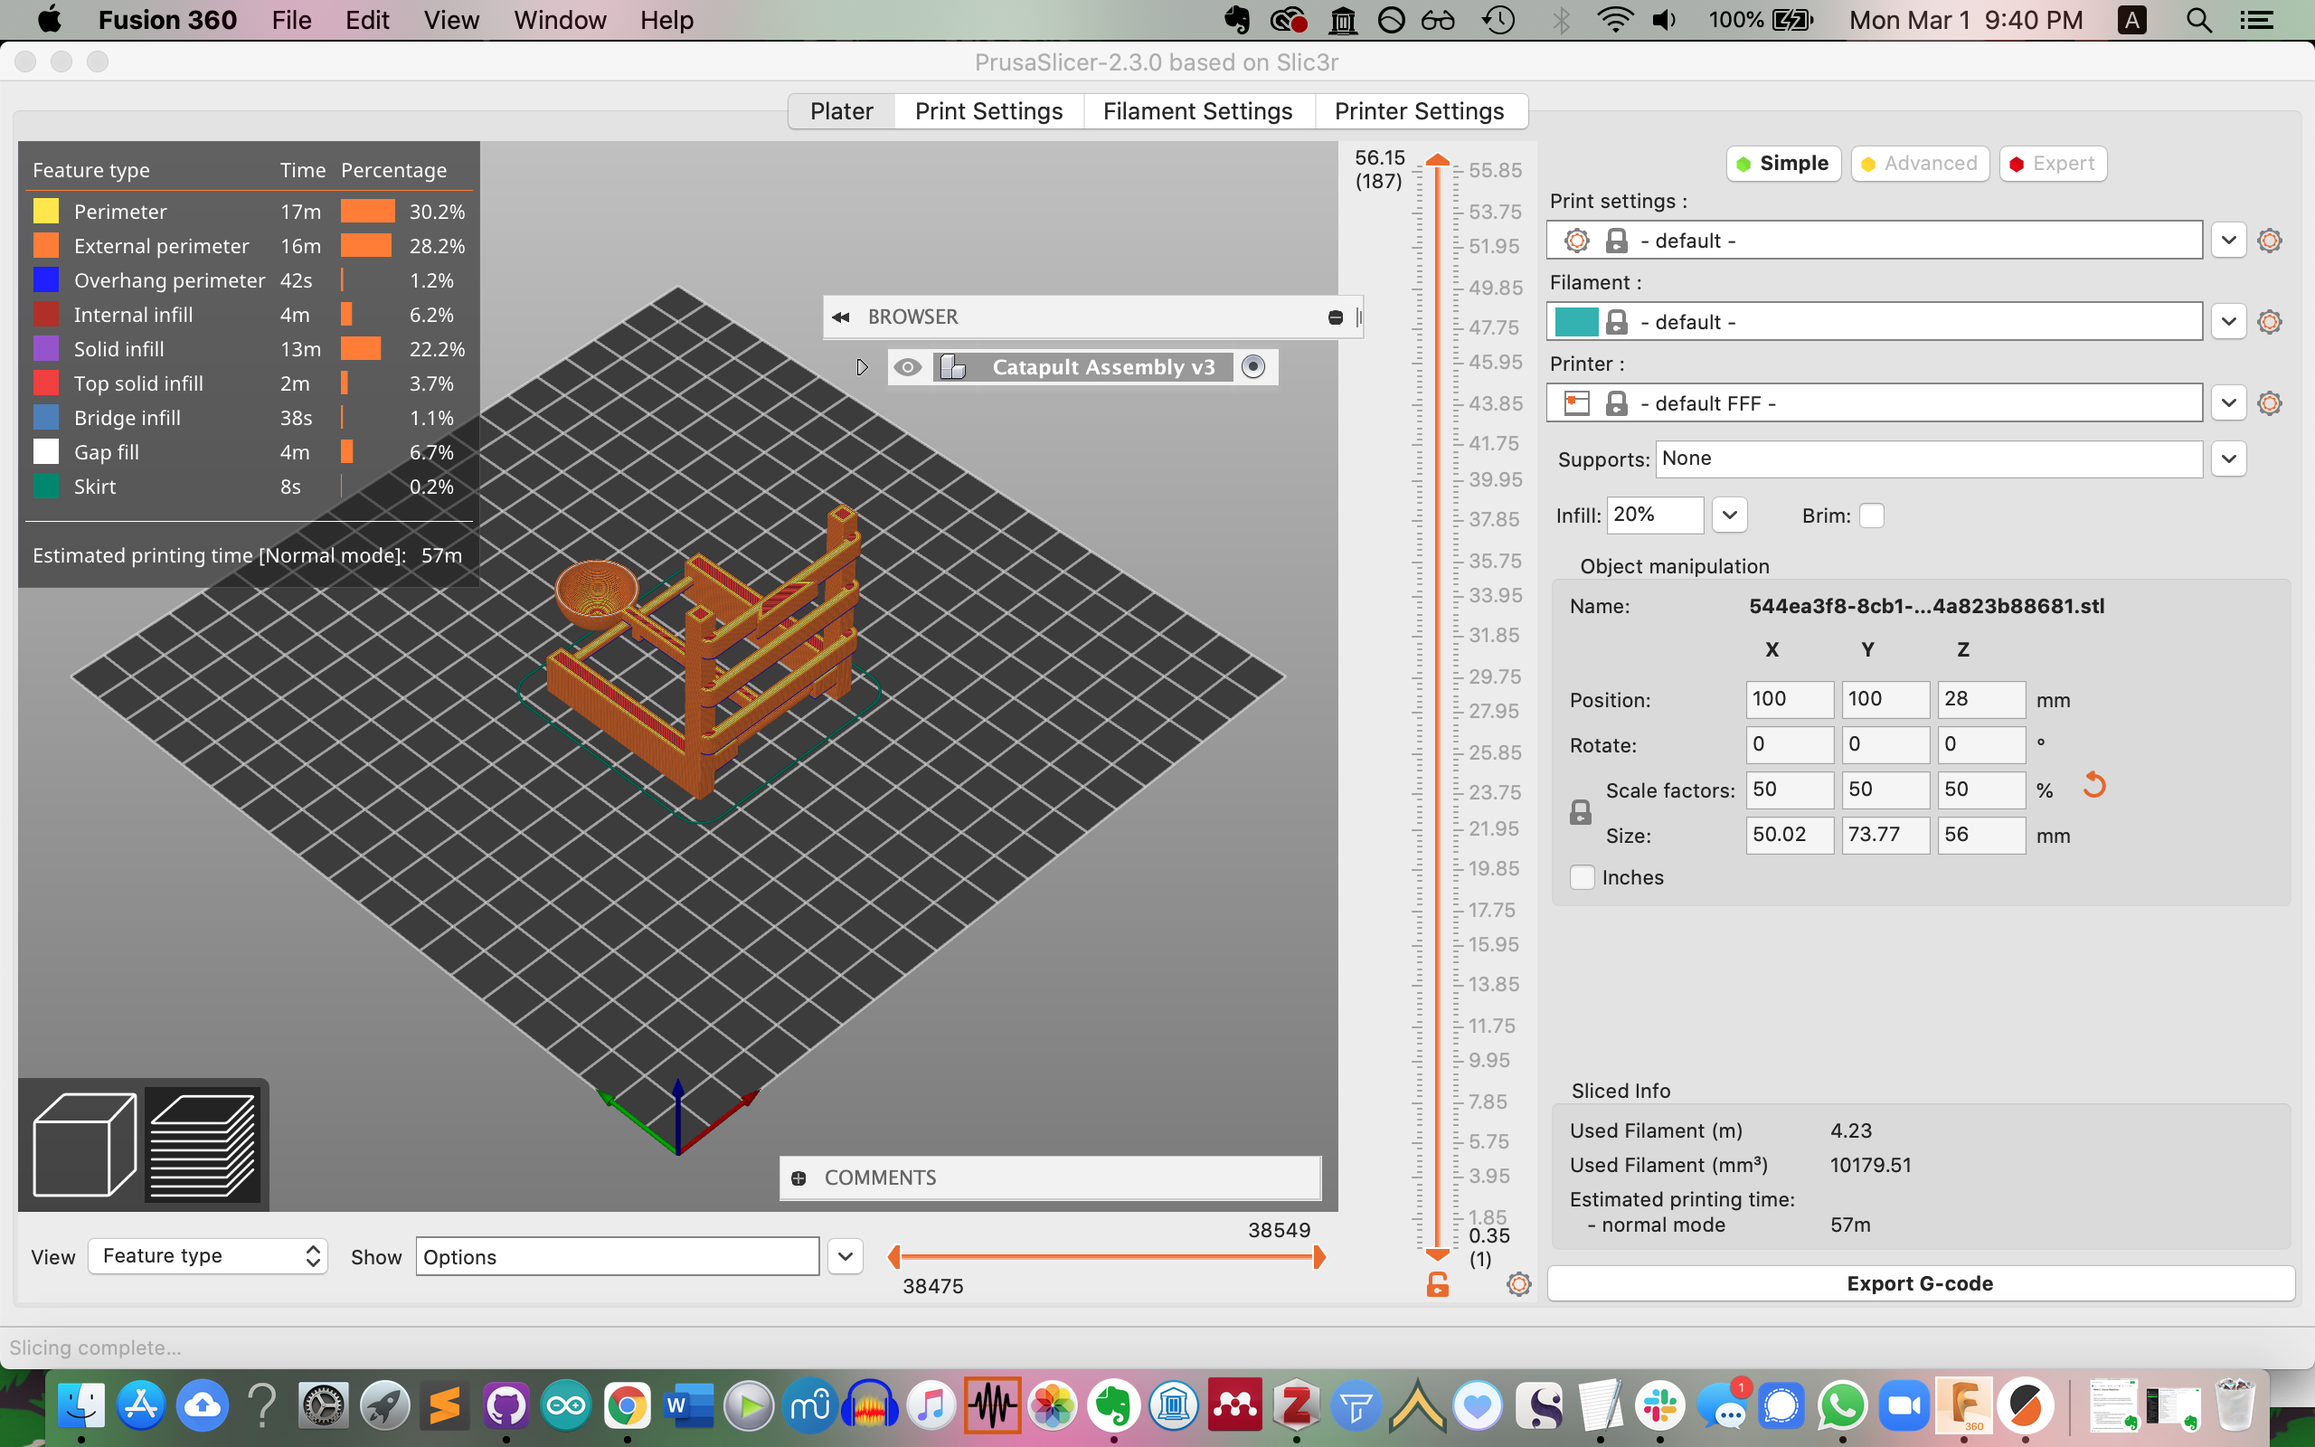
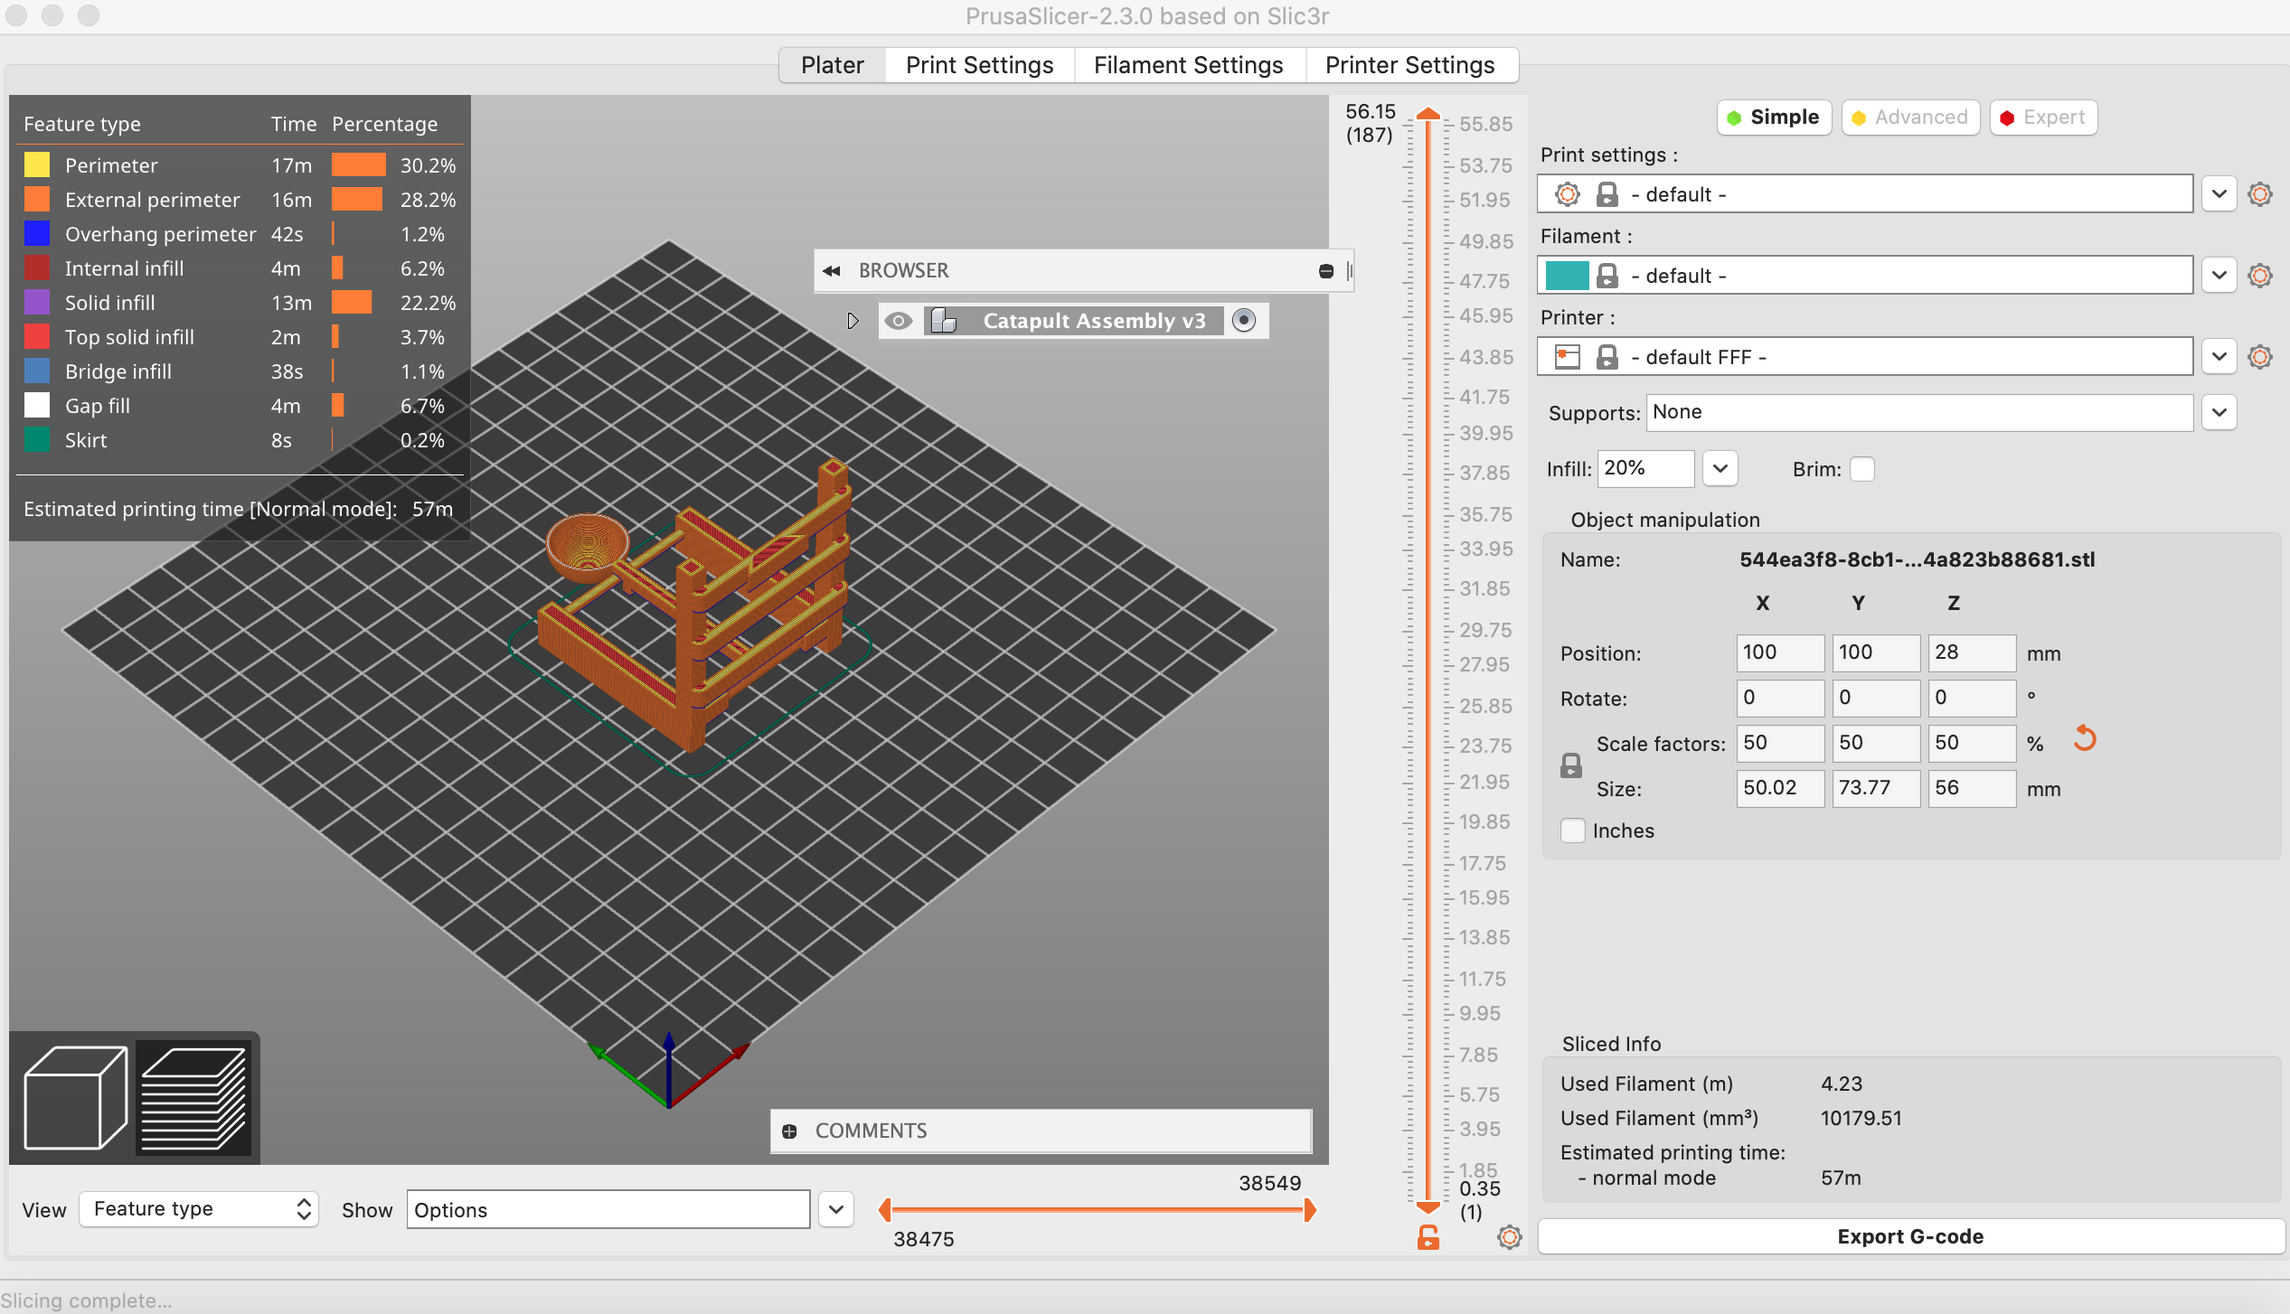
created page for W5

diff --git a/Week05/index05.html b/Week05/index05.html
@@ -111,7 +111,7 @@
 
 <!-- Second Container -->
 <div class="container-fluid2 bg-9 text-center">
-  <p><b>Week 04: Microcontroller Programming</b></p>
+  <p><b>Week 05: 3D Design & Printing</b></p>
  <!--  <a href="#" class="btn btn-default btn-lg">
     <span class="glyphicon glyphicon-search"></span> Search
   </a> -->
@@ -122,142 +122,80 @@
 <!--   <h3 class="margin">Weekly Work</h3><br> -->
   <div class="row">
     <div class="col-sm-3">
-      <p><b>The Idea</b></p>
+      <p><b>Designing a small object...</b></p>
       <br>
-      <p style="font-size:75%""><i>Here's a creepy pager commercial from the 90s</i><br>
-        <iframe width="270" height="150" src="https://www.youtube.com/embed/jrUVYTqvIfI" frameborder="0" allow="accelerometer; autoplay; clipboard-write; encrypted-media; gyroscope; picture-in-picture" allowfullscreen></iframe></P>
-      <!-- <img src="birds1.jpg" class="img-responsive margin" style="width:100%" alt="Image"> -->
+      <br>
+      <p><img src="CatapultFrame1.png" class="img-responsive margin" style="width:100%" alt="Image"></p>
+      <br>
+      <p><img src="CatapultAssembly_Final.png" class="img-responsive margin" style="width:100%" alt="Image"></p>
+      <br>
+      <p><iframe src="https://giphy.com/embed/HNDV2nXVUltZ8qfvT0" width="300" height="270" frameBorder="0" class="giphy-embed" allowFullScreen></iframe><p style="font-size:50%"><a href="https://giphy.com/gifs/HNDV2nXVUltZ8qfvT0">via GIPHY</a></p></p>
     </div>
     <div class="col-sm-9"> 
-      <p>For this week’s assignment I considered building on Week 3, but I realized that what I would want to program with Arduino would be simple compared to the amount of work I would need to do to reconstruct the movement mechanism for the kinetic sculpture. So, I decided to go in a different direction.</p>
-      <p>My husband had been asking me for an “on air” switch that we could use to let the other person know when we were on a zoom call (our desks abut one another in our tiny apartment). This also, really did not require any programming. So instead he suggested a pager, so I could indicate to him when I needed something based on different LED patterns. I thought it would be cool to add an “urgency” indicator, where the speed of the blinking LEDs would increase or decrease based on adjustments made to a potentiometer.</p>
-      <p>I’m curious if I can use the piezo sensor as a kind of button, to indicate when the lights should come on or off, and which lights should illuminate.
-      </p>
+      <p>This week we were tasked with designing a small 3-D object that could not be easily created using subtractive methods and that would take less than an hour to print. I wanted to create something that had movable parts because I was curious about how the 3-D printer creates things like hinges that can’t be disassembled. Again, inspired by our cat, my husband suggested a small catapult that could propel her toys or treats around the room.</p>
+      <p>I considered designing something that wouldn’t require the use of a rubber band, but since I’ve never 3-D printed anything and have limited experience with the pliability of the filament material, I thought it might be best not to tempt fate.</p>
+      <p>I drafted a few ideas on graph paper and then used Fusion 360 to make my design. I did my best to limit the amount of material I used to create the structure, while still making sure it would be structurally viable. I also wanted to design the structure so that I wouldn't need any supports for the printing process. My original design in Fusion360 measured at roughly 10cm square.</p>
+      <p><iframe src="https://myhub.autodesk360.com/ue2f9e3f6/shares/public/SH56a43QTfd62c1cd96878c06e439bcfed80?mode=embed" width="800" height="600" allowfullscreen="true" webkitallowfullscreen="true" mozallowfullscreen="true"  frameborder="0"></iframe></p>
+      <p>I exported the completed design to PrusaSlicer and making no changes to the automatic infill percent (20%) and keeping the size at 100%, the slicer computed a print time of a whopping 5 hours and 18 minutes! Changing the infill percentage didn't make too much of a difference (minutes) so I adjusted the size. Dropping it to 50% put my print time at 57minutes. Phew! This will be a wee catapult, but I guess that will just make it very very cute.</p>
+      <div class="row">
+      <div class="col-sm-6">
+      <p><img src="Prusa_5hr.png" class="img-responsive margin" style="width:100%" alt="Image"></p>
+      </div>
+      <div class="col-sm-6">
+      <p><img src="CatapultPrusa_1hr.png" class="img-responsive margin" style="width:100%" alt="Image"></p>
+      </div>
+      <p><a download href='./ps70_Jones_CatapultAssembly.stl'>Download my STL file</a></p>
+      <p><a download href='./ps70_Jones_Catapult.gcode'>Download my g-code file</a></p>
 
-      <!-- <img src="birds2.jpg" class="img-responsive margin" style="width:100%" alt="Image"> -->
+    </div>
+    
+
     </div>
   </div>
+
+</div>
+<div class="container-fluid bg-7">
 <div class="row">
   <div class="col-sm-3">
-    <p><b>The Basic LED Blinking Circuit</b>
+    <p><b>Scan Something in 3-D</b>
       <br>
       <br>
-      <iframe src="https://giphy.com/embed/XmWzjdJsSJVj0YsIRu" width="270" height="300" frameBorder="0" class="giphy-embed" allowFullScreen></iframe><p><a href="https://giphy.com/gifs/XmWzjdJsSJVj0YsIRu">via GIPHY</a></p>
-    </p>
-      <!-- <img src="birds1.jpg" class="img-responsive margin" style="width:100%" alt="Image"> -->
+      <p><img src="CatFront.jpg" class="img-responsive margin" style="width:100%" alt="Image"></p>
+      <p><img src="CatBack.jpg" class="img-responsive margin" style="width:100%" alt="Image"></p>
     </div>
     <br>
   <div class="col-sm-9">
-    <p>First, I decided I’d figure out how to control the blink of a single LED with a pot. I knew that the value of the potentiometer would be controlling the value of the delay between commands to turn the LED on and off. The LED commands would be digitalWrite() functions but the pot would be using an analogRead() function. This actually turned out to be very simple. After perusing the beginning of the Arduino Project Book and doing some Arduino googling, I found some <a href="https://www.arduino.cc/en/tutorial/potentiometer">basic code for linking a pot to the speed of the LED blink.</a></p>
-    <p>I made a simple LED circuit using a 470 Ohm resistor to start and was able to successfully get my LED to blink.</p>
+    <p>I experimented with a few 3-D scanner apps, but since I have an older phone, I was limited. Plus, the apps meant for iphoneX seemed to be mostly for face scanning, which I didn't want to do. I ended up using Qlone to scan as it was the only app I was able to get working (unfortunatley Scan3D crashed when I tried to load it). I visited my parents this weekend (the first time I'd seen them since September!!) and decided to take advantage of their resources -- a lazy susan, and a variety of tchotchkes. Continuing with the cat theme, I chose a small porcelain figurine of a white kitten because it was (a) small and (b) I wanted to see how the 3-D scanner would pick up its textured fur.</p>
+    <p>Scanning with the lazy susan really made the process much more pleasant than my earlier experiments walking around objects. The initial scan of the object had a very pointy top,  a trait that seems to be common to the Qlone app. Selecting "flatten top" overcompensated, so instead I took advantage of another feature of the app. Qlone allows you to take scans of the object in multiple positions to improve the scan. I took a second scan of the cat on its side and this produced a much better composite scan.</p>
+    <p>A major downside to Qlone is that while you can make scans for free and export them as GIFs, Videos, or Images, you have to pay to export any other filetypes.</p>
+    <div class="row">
+    <div class="col-sm-6">
+      <p><img src="Qlone_Cat_Flat.png" class="img-responsive margin" style="width:100%" alt="Image"></p>
     </div>
+    <div class="col-sm-6">
+      <p><img src="QloneScan2.png" class="img-responsive margin" style="width:100%" alt="Image"></p>
+    </div>
+    </div>
+    <p><iframe src="https://giphy.com/embed/Dj8qvlZfpN636m5nYd" width="480" height="264" frameBorder="0" class="giphy-embed" allowFullScreen></iframe><p style="font-size:50%"><a href="https://giphy.com/gifs/Dj8qvlZfpN636m5nYd">via GIPHY</a></p>
   </div>
+  </div>
+
   <br>
   <div class="row">
   <div class="col-sm-3">
-    <p><b>Adding the Pot</b>
-      <br>
-      <br>
-      <iframe width="270" height="150" src="https://www.youtube.com/embed/jYDeGwNNuHQ" frameborder="0" allow="accelerometer; autoplay; clipboard-write; encrypted-media; gyroscope; picture-in-picture" allowfullscreen></iframe>
-      </p>
+    <p><b>3-D Modelling for my Final Project</b>
+      
       <!-- <img src="birds1.jpg" class="img-responsive margin" style="width:100%" alt="Image"> -->
     </div>
   <div class="col-sm-9">
-    <p>Now to incorporate the potentiometer. I took a look at the example code for controlling a motor with a pot and followed some of those directions for the microcontroller and board set up. I then borrowed the setup commands for the pot and then changed the formula to be about the delay. And it worked!
-    <br>
-    <pre><code class="language-arduino">
-int led = 13; // the pin the LED is connected to
-
-void setup() {
-  pinMode(led, OUTPUT); // Declare the LED as an output
-  pinMode(A0, OUTPUT);  //This will be GND for the potentiometer
-  pinMode(A4, OUTPUT);  //This will be 3.3V for the pot.
-  digitalWrite(A0, LOW);
-  digitalWrite(A4, HIGH);
-  digitalWrite(led, LOW); // start with the LED off
-}
-
-void loop() {
-  int pot_value = analogRead(A2); // pot wiper is on A2
-  int delay_level = map(pot_value, 0, 1023, 2000, 0); // map motor level to delay period
-  digitalWrite(led, HIGH); // Turn the LED on
-  delay(delay_level); // wait for a time dependent on the pot level
-  digitalWrite(led, LOW); //Turn the LED off
-  delay(delay_level); // wait for a time dependent on the pot level
-}
-}
-    </code></pre>
-    </p>
-    </div>
-  </div>
-    <div class="row">
-  <div class="col-sm-3">
-    <p><b>Adding more LEDs</b>
-      <br></p>
-      <!-- <img src="birds1.jpg" class="img-responsive margin" style="width:100%" alt="Image"> -->
-    </div>
-  <div class="col-sm-9">
-    <p>Now I set up three different LEDs and connected them to three different buttons. This worked without changing any code at all.</p>
-    <p><iframe src="https://giphy.com/embed/JWuMweaYW2GqiXxPD8" width="480" height="270" frameBorder="0" class="giphy-embed" allowFullScreen></iframe><p><a href="https://giphy.com/gifs/JWuMweaYW2GqiXxPD8">via GIPHY</a></p>
-    <br>
-    </div>
-  </div>
-  <div class="col-sm-3">
-    <p><b>The Piezo Disc</b></p>
-    <p><img src="PiezoSetup.jpg" class="img-responsive margin" style="width:100%" alt="Image"></p>
-    <p><img src="LEDSetUp.jpg" class="img-responsive margin" style="width:100%" alt="Image"></p>
-    <p><img src="MetroSetUp.jpg" class="img-responsive margin" style="width:100%" alt="Image"></p>
-    </div>
-
-  <div class="col-sm-9">
-    <p>This last step proved to be the most difficult. I wanted to try and use a Piezo disc instead of buttons to control which LEDs turned on. First I set up each of my LEDs onto different pins. <br>
-<pre><code class="language-arduino">
-const int piezoSensor = A5; // analog pin in piezo is connected to
-int sensorReading = 0; //variable to store value read from sensor
-int led = 13; // the pin the LED is connected to
-
-void setup() {
-  pinMode(led, OUTPUT); // Declare the LED as an output
-  pinMode(A0, OUTPUT);  //This will be GND for the potentiometer
-  pinMode(A4, OUTPUT);  //This will be 3.3V for the pot.
-  digitalWrite(A0, LOW);
-  digitalWrite(A4, HIGH);
-  digitalWrite(led, LOW); // start with the LED off
-  Serial.begin(9600); //start serial monitor window
-}
-
-void loop() {
-  sensorReading = analogRead(piezoSensor);
-  Serial.println(sensorReading);
-  if(sensorReading > 0 && sensorReading <=100) {
-  int pot_value = analogRead(A2); // pot wiper is on A2
-  int delay_level = map(pot_value, 0, 1023, 2000, 0); // map motor level to delay period
-  digitalWrite(led, HIGH); // Turn the LED on
-  delay(delay_level); // wait for a time dependent on the pot level
-  digitalWrite(led, LOW); //Turn the LED off
-  delay(delay_level); // wait for a time dependent on the pot level
-
-  delay(10);
-  }
-
-  else {
-    digitalWrite(led, LOW); //Turn LED off
-
-    delay(10);
-  }
-}
-</code></pre>
-    <p>I explored a few different tutorials including this one for <a href="https://www.arduino.cc/en/Tutorial/BuiltInExamples/Knock">basic Knock sensing</a> and <a href="https://www.sensingthecity.com/vibrations-to-light-use-a-piezo-element-to-control-an-led-strip/">this code for controlling an LED strip with a piezo disc</a>. I was already using my A0-A4 pins for the pot, so I used the A5 pin for my piezo disc along with a 1M ohm resistor. At first, I set this up wrong. (Later, I realized this and added a diode. I wrote the code to respond to different thresholds of vibration.</p>
-    <p>This seemed to work but the piezo sensor was very very sensitive...so I tried modifying the thresholds and that sort of worked a little better. (note in the video below, my piezo sensor is hooked up strangely.... I later adjusted this based on the tutorial I mentioned above.)</p>
-    <p><iframe width="560" height="315" src="https://www.youtube.com/embed/Gux3PHDmYaM" frameborder="0" allow="accelerometer; autoplay; clipboard-write; encrypted-media; gyroscope; picture-in-picture" allowfullscreen></iframe></p>
-    <p>I still wanted to incorporate a sequence of knocks however to signal which LED should turn on. I used a combination of code from this <a href="https://www.programmingelectronics.com/how-to-make-a-secret-knock-detector-to-trigger-anything-with-only-an-arduino-and-a-few-cheap-components/">secret knock tutorial</a> and this <a href="https://www.instructables.com/Aruidno-LED-Knock-Puzzle/">LED knock puzzle tutorial.</a> The code was starting to get complicated and though I think I finally figured out the correct commands...it wasn't translating into the circuit. I then tried to go back and retest my original threshold code and that didn't work either, which is drawing me to conclude that I may have damaged my piezo sensor? ::crying:: </p>
-    <p><a href="./LEDPiezoBlink_Thresholds">Download my code with thresholds</a></p>
-    <p><a href="LEDPiezoBlink_KnockSequence">Download my code for knock sequences</a></p>
-
-    </p>
-    </div>
+    <p>As I am making a glove, I don't anticipate needing to 3-D print anything. Instead, I did some research on conductive thread and different wearable sensors and wearable inventions generally. I ordered some conductive thread to experiment with and along the way discovered that conductive yarn also exists. I may play around with that as well, as crocheting a finger pad may be easier than embroidering one.</p>
   </div>
 </div>
+</p>
+</div>
+</div>
+</div>
+</body>
 
 <!-- Footer -->
 <footer class="container-fluid bg-4 text-center">
